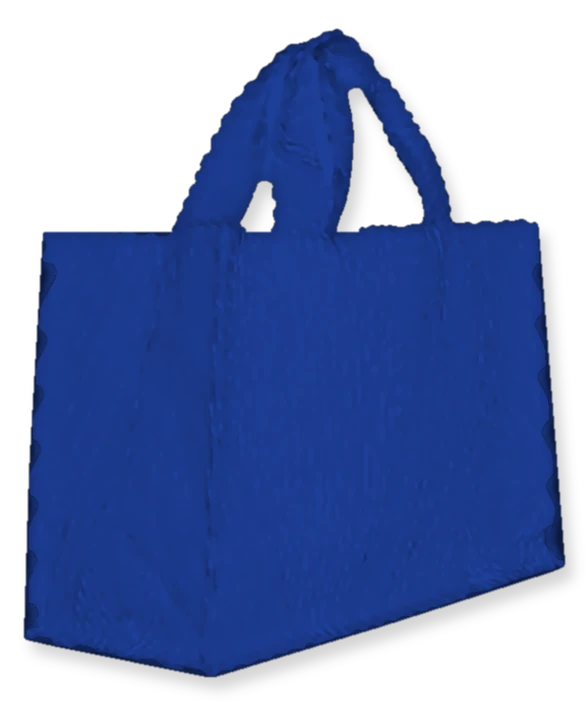
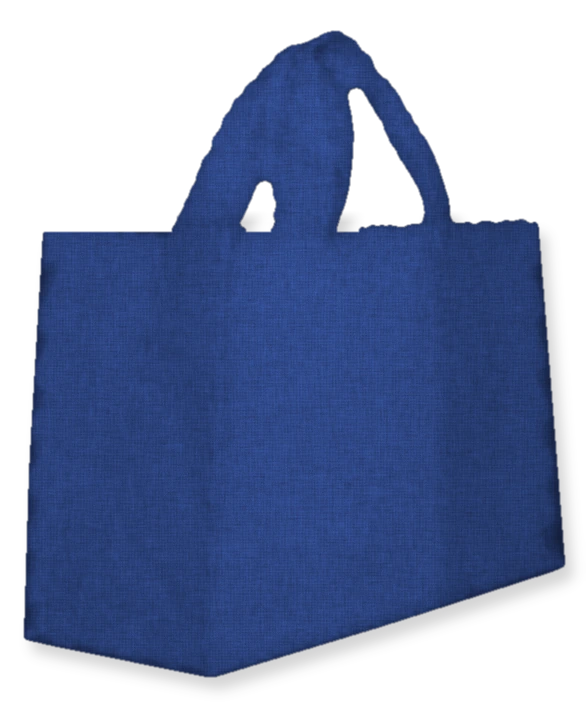
Standing Canvas Tote: more natural canvas weave texture and lighting. Requested by Lala.
Claude-Session: https://claude.ai/code/session_01JY2qApSMh3EdeyD2yLzbwL

diff --git a/lookbook-price-list/index.html b/lookbook-price-list/index.html
@@ -412,7 +412,7 @@ video::-webkit-media-controls,video::-webkit-media-controls-start-playback-butto
     <div class="textcard tote-mesh"><h3>Cotton Mesh Bag</h3><p>In the photo · light cotton mesh, 1-colour logo print</p><div class="price"><div class="tiers"><div><span>MOQ–499 pcs</span><b>€8.90</b></div><div><span>500–999 pcs</span><b>€7.90</b></div><div><span>1,000+ pcs</span><b>€6.90</b></div></div><small>per pc · excl. VAT · logo incl. · MOQ 200</small></div></div>
     <div class="grid g2 totes">
       <div class="card"><img class="cut" src="/uploads/lookbook/tote_terry.webp" alt="Blue terry tote bag" loading="lazy"><h3>Terry Tote</h3><p>40 × 38 × 11 cm, also small</p><div class="price"><div class="tiers"><div><span>MOQ–499 pcs</span><b>€22.50 – €25.50</b></div><div><span>500–999 pcs</span><b>€19.90 – €22.50</b></div><div><span>1,000+ pcs</span><b>€16.50 – €18.50</b></div></div><small>per pc · excl. VAT · excl. logo · MOQ 60</small></div></div>
-      <div class="card"><img class="cut" src="/uploads/lookbook/tote_canvas.webp?v=3" alt="Royal blue standing canvas tote" loading="lazy"><h3>Standing Canvas Tote</h3><p>49 × 34 × 23 cm</p><div class="price"><div class="tiers"><div><span>MOQ–499 pcs</span><b>€52.50</b></div><div><span>500–999 pcs</span><b>€47.90</b></div><div><span>1,000+ pcs</span><b>€42.50</b></div></div><small>per pc · excl. VAT · excl. logo · MOQ 200</small></div></div>
+      <div class="card"><img class="cut" src="/uploads/lookbook/tote_canvas.webp?v=4" alt="Royal blue standing canvas tote" loading="lazy"><h3>Standing Canvas Tote</h3><p>49 × 34 × 23 cm</p><div class="price"><div class="tiers"><div><span>MOQ–499 pcs</span><b>€52.50</b></div><div><span>500–999 pcs</span><b>€47.90</b></div><div><span>1,000+ pcs</span><b>€42.50</b></div></div><small>per pc · excl. VAT · excl. logo · MOQ 200</small></div></div>
     </div>
   </div>
 </section>

diff --git a/lookbook/index.html b/lookbook/index.html
@@ -399,7 +399,7 @@ video::-webkit-media-controls,video::-webkit-media-controls-start-playback-butto
     <div class="textcard tote-mesh"><h3>Cotton Mesh Bag</h3><p>In the photo · light cotton mesh, 1-colour logo print</p></div>
     <div class="grid g2 totes">
       <div class="card"><img class="cut" src="/uploads/lookbook/tote_terry.webp" alt="Blue terry tote bag" loading="lazy"><h3>Terry Tote</h3><p>40 × 38 × 11 cm, also small</p></div>
-      <div class="card"><img class="cut" src="/uploads/lookbook/tote_canvas.webp?v=3" alt="Royal blue standing canvas tote" loading="lazy"><h3>Standing Canvas Tote</h3><p>49 × 34 × 23 cm</p></div>
+      <div class="card"><img class="cut" src="/uploads/lookbook/tote_canvas.webp?v=4" alt="Royal blue standing canvas tote" loading="lazy"><h3>Standing Canvas Tote</h3><p>49 × 34 × 23 cm</p></div>
     </div>
   </div>
 </section>
